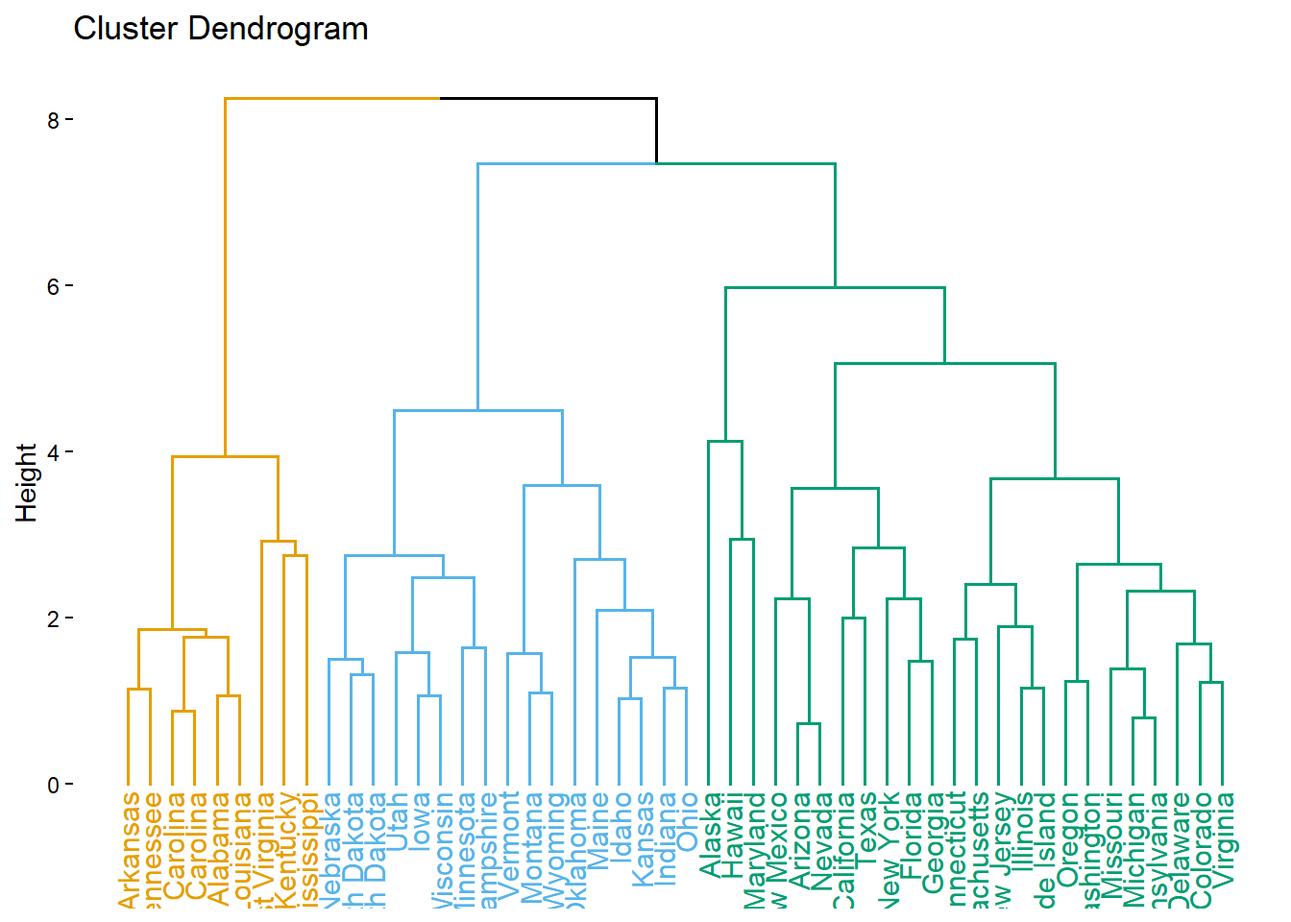
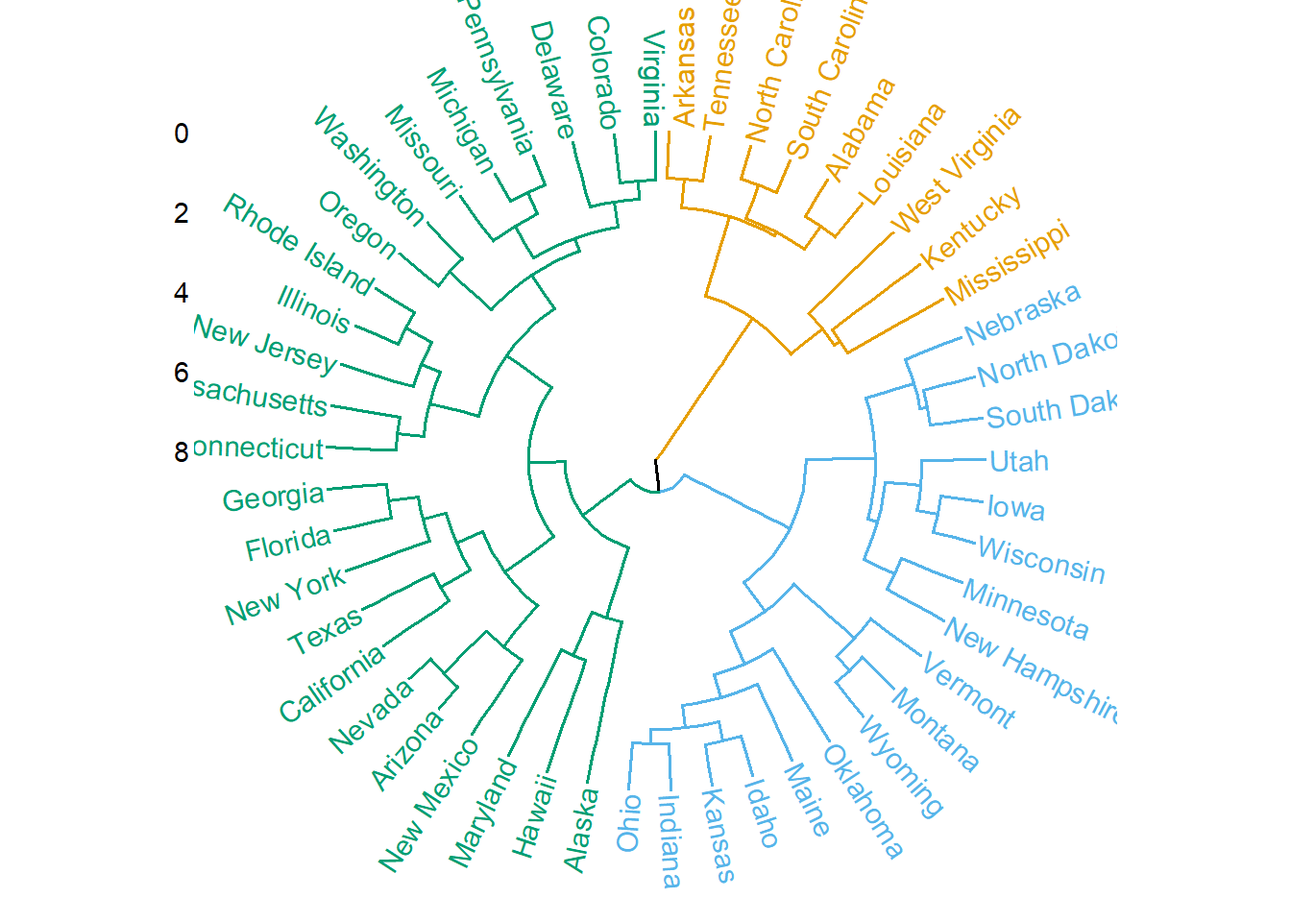
Still trying...

diff --git a/docs/module-05/rTools.html b/docs/module-05/rTools.html
@@ -105,24 +105,6 @@ pre > code.sourceCode > span > a:first-child::before { text-decoration: underlin
     "search-label": "Search"
   }
 }</script>
-<link href="../site_libs/htmltools-fill-0.5.8.1/fill.css" rel="stylesheet">
-
-<script src="../site_libs/htmlwidgets-1.6.4/htmlwidgets.js"></script>
-
-<script src="../site_libs/plotly-binding-4.12.0/plotly.js"></script>
-
-<script src="../site_libs/typedarray-0.1/typedarray.min.js"></script>
-
-<script src="../site_libs/jquery-3.5.1/jquery.min.js"></script>
-
-<link href="../site_libs/crosstalk-1.2.1/css/crosstalk.min.css" rel="stylesheet">
-
-<script src="../site_libs/crosstalk-1.2.1/js/crosstalk.min.js"></script>
-
-<link href="../site_libs/plotly-htmlwidgets-css-2.25.2/plotly-htmlwidgets.css" rel="stylesheet">
-
-<script src="../site_libs/plotly-main-2.25.2/plotly-latest.min.js"></script>
-
 
   <script src="https://cdnjs.cloudflare.com/polyfill/v3/polyfill.min.js?features=es6"></script>
   <script defer="" src="https://cdn.jsdelivr.net/npm/mathjax@3/es5/tex-chtml-full.js" type="text/javascript"></script>
@@ -512,29 +494,31 @@ window.Quarto = {
 </div>
 </div>
 </div>
-<p>If you don’t like the cluttering of names, you can shrink the labels and add a tooltip instead using the <code>ggplotly</code> function from the <code>plotly</code> package. Then you can scroll over a point to reveal the state:</p>
-<div class="cell">
-<div class="code-copy-outer-scaffold"><div class="sourceCode cell-code" id="cb10"><pre class="sourceCode r code-with-copy"><code class="sourceCode r"><span id="cb10-1"><a href="#cb10-1" aria-hidden="true" tabindex="-1"></a><span class="fu">library</span>(plotly)</span>
-<span id="cb10-2"><a href="#cb10-2" aria-hidden="true" tabindex="-1"></a>cluster_plot<span class="ot">=</span><span class="fu">fviz_cluster</span>(election_kmeans,</span>
-<span id="cb10-3"><a href="#cb10-3" aria-hidden="true" tabindex="-1"></a>             <span class="at">data=</span>election_scale,</span>
-<span id="cb10-4"><a href="#cb10-4" aria-hidden="true" tabindex="-1"></a>             <span class="at">labelsize=</span><span class="fl">0.1</span>,</span>
-<span id="cb10-5"><a href="#cb10-5" aria-hidden="true" tabindex="-1"></a>  <span class="at">palette=</span>cb_palette[<span class="dv">2</span><span class="sc">:</span><span class="dv">4</span>])</span>
-<span id="cb10-6"><a href="#cb10-6" aria-hidden="true" tabindex="-1"></a><span class="fu">ggplotly</span>(cluster_plot,<span class="at">tooltip =</span> <span class="st">"text"</span>)</span></code></pre></div><button title="Copy to Clipboard" class="code-copy-button"><i class="bi"></i></button></div>
-<div class="cell-output-display">
-<div class="plotly html-widget html-fill-item" id="htmlwidget-8c93e593dcd35da8ef87" style="width:100%;height:464px;"></div>
-<script type="application/json" data-for="htmlwidget-8c93e593dcd35da8ef87">{"x":{"data":[{"x":[-2.2976920950619757,-3.4579815063430837,0.65488316007940039,-0.57306391682508706,0.10679401038089226,-2.3336397779250557,-2.088062601642922,0.61618628385279894,-1.0571038629020169,0.027167697426979553,-0.59820230288701914,0.11837066415154505,-2.2112814622806525,-1.465712456721405,-2.7086221065581784,-0.37187135645302105,-0.066341571462854715,-1.3825811885629014,-2.5402287656728735,-0.073178625344907128,0.16345016286404679],"y":[0.70633242639587879,1.8857588150984332,1.3328566945280842,2.1121720222998186,0.89800796899391133,0.1943778542753947,0.27934656190753604,3.1169013071066534,1.0820385997528874,3.2338253654451612,1.8179302593667013,-0.050095664925867908,0.86213487791744614,2.5789790146882621,0.83037449932062701,0.49513706772535027,-0.063602067651514771,1.155238372670339,1.4341327912183277,1.7217792535681351,1.0980789493058363],"text":"","type":"scatter","mode":"markers","marker":{"autocolorscale":false,"color":"rgba(230,159,0,1)","opacity":1,"size":5.6692913385826778,"symbol":"circle","line":{"width":1.8897637795275593,"color":"rgba(230,159,0,1)"}},"hoveron":"points","name":"1","legendgroup":"1","showlegend":true,"xaxis":"x","yaxis":"y","hoverinfo":"text","frame":null},{"x":[1.3749407601728492,1.3600943502645158,0.5124428856252885,2.687874176440936,1.0627972742148741,2.0844133489057728,2.2263062589325067,0.44930860848333115,2.7809815971655016,2.3712428318529777,3.4557327395988047,2.9293465380405919,0.5191293231431795,2.309326966475842,2.3533730322955675,3.0538987993089375,1.8044548304996253,3.268952776649404],"y":[1.3889740276872915,-0.74942661917558984,-1.3018384138704417,-0.15542681620354867,-0.68818471183037411,-1.8525110921412142,1.8615265381799257,0.0075294636184669861,-1.772664005874574,0.58326511888020582,1.3653393019025726,-0.20253340775355808,-0.80729059305616424,-0.60385617903777444,0.99896504659684204,-1.2374827373584121,-0.02219390885203229,-1.0404805811247406],"text":"","type":"scatter","mode":"markers","marker":{"autocolorscale":false,"color":"rgba(86,180,233,1)","opacity":1,"size":5.6692913385826778,"symbol":"triangle-up","line":{"width":1.8897637795275593,"color":"rgba(86,180,233,1)"}},"hoveron":"points","name":"(2,1)","legendgroup":"(2,1)","showlegend":true,"xaxis":"x","yaxis":"y","hoverinfo":"text","frame":null},{"x":[-1.6313116065848672,-0.95242981851338049,-0.92734416591119184,-2.1632404335808748,-1.8457131087741316,-2.5362975801474823,-1.4176371027357724,0.045702562624385337,-1.1918789994133645,-1.6533223162591157,-0.79243291088642143],"y":[-2.360600722364866,-1.844265037110024,-3.7045720074914681,-1.875211165773792,-3.6838476316817066,-0.59977868777620136,-0.77128527910468192,-1.0299785953675664,-0.92490467957479028,-1.8738762021509057,-3.8250953911982823],"text":"","type":"scatter","mode":"markers","marker":{"autocolorscale":false,"color":"rgba(0,158,115,1)","opacity":1,"size":5.6692913385826778,"symbol":"square","line":{"width":1.8897637795275593,"color":"rgba(0,158,115,1)"}},"hoveron":"points","name":"(3,1)","legendgroup":"(3,1)","showlegend":true,"xaxis":"x","yaxis":"y","hoverinfo":"text","frame":null},{"x":[0.65488316007940039,0.11837066415154505,-0.066341571462854715,-2.3336397779250557,-3.4579815063430837,0.027167697426979553,0.61618628385279894,0.65488316007940039],"y":[1.3328566945280842,-0.050095664925867908,-0.063602067651514771,0.1943778542753947,1.8857588150984332,3.2338253654451612,3.1169013071066534,1.3328566945280842],"text":"","type":"scatter","mode":"lines","line":{"width":1.8897637795275593,"color":"rgba(230,159,0,0.2)","dash":"solid"},"fill":"toself","fillcolor":"rgba(230,159,0,0.2)","hoveron":"fills","name":"1","legendgroup":"1","showlegend":false,"xaxis":"x","yaxis":"y","hoverinfo":"text","frame":null},{"x":[3.268952776649404,2.7809815971655016,2.0844133489057728,0.5124428856252885,0.44930860848333115,1.3749407601728492,2.2263062589325067,3.4557327395988047,3.268952776649404],"y":[-1.0404805811247406,-1.772664005874574,-1.8525110921412142,-1.3018384138704417,0.0075294636184669861,1.3889740276872915,1.8615265381799257,1.3653393019025726,-1.0404805811247406],"text":"","type":"scatter","mode":"lines","line":{"width":1.8897637795275593,"color":"rgba(86,180,233,0.2)","dash":"solid"},"fill":"toself","fillcolor":"rgba(86,180,233,0.2)","hoveron":"fills","name":"(2,1)","legendgroup":"(2,1)","showlegend":false,"xaxis":"x","yaxis":"y","hoverinfo":"text","frame":null},{"x":[-0.79243291088642143,-1.8457131087741316,-2.5362975801474823,-1.4176371027357724,0.045702562624385337,-0.79243291088642143],"y":[-3.8250953911982823,-3.6838476316817066,-0.59977868777620136,-0.77128527910468192,-1.0299785953675664,-3.8250953911982823],"text":"","type":"scatter","mode":"lines","line":{"width":1.8897637795275593,"color":"rgba(0,158,115,0.2)","dash":"solid"},"fill":"toself","fillcolor":"rgba(0,158,115,0.2)","hoveron":"fills","name":"(3,1)","legendgroup":"(3,1)","showlegend":false,"xaxis":"x","yaxis":"y","hoverinfo":"text","frame":null},{"x":[-1.0256529341851568],"y":[1.2724621413813049],"text":"","type":"scatter","mode":"markers","marker":{"autocolorscale":false,"color":"rgba(230,159,0,1)","opacity":1,"size":11.338582677165356,"symbol":"circle","line":{"width":1.8897637795275593,"color":"rgba(230,159,0,1)"}},"hoveron":"points","name":"1","legendgroup":"1","showlegend":false,"xaxis":"x","yaxis":"y","hoverinfo":"text","frame":null},{"x":[2.0335898387816949],"y":[-0.23490497607850663],"text":"","type":"scatter","mode":"markers","marker":{"autocolorscale":false,"color":"rgba(86,180,233,1)","opacity":1,"size":11.338582677165356,"symbol":"triangle-up","line":{"width":1.8897637795275593,"color":"rgba(86,180,233,1)"}},"hoveron":"points","name":"(2,1)","legendgroup":"(2,1)","showlegend":false,"xaxis":"x","yaxis":"y","hoverinfo":"text","frame":null},{"x":[-1.3696277709256561],"y":[-2.044855945417662],"text":"","type":"scatter","mode":"markers","marker":{"autocolorscale":false,"color":"rgba(0,158,115,1)","opacity":1,"size":11.338582677165356,"symbol":"square","line":{"width":1.8897637795275593,"color":"rgba(0,158,115,1)"}},"hoveron":"points","name":"(3,1)","legendgroup":"(3,1)","showlegend":false,"xaxis":"x","yaxis":"y","hoverinfo":"text","frame":null},{"x":[-1.6313116065848672,1.3749407601728492,-2.2976920950619757,-0.95242981851338049,-3.4579815063430837,0.65488316007940039,-0.57306391682508706,0.10679401038089226,-2.3336397779250557,-2.088062601642922,0.61618628385279894,1.3600943502645158,-1.0571038629020169,0.5124428856252885,2.687874176440936,1.0627972742148741,-0.92734416591119184,-2.1632404335808748,2.0844133489057728,0.027167697426979553,-0.59820230288701914,0.11837066415154505,2.2263062589325067,-1.8457131087741316,0.44930860848333115,2.7809815971655016,2.3712428318529777,-2.2112814622806525,3.4557327395988047,-1.465712456721405,-2.5362975801474823,-2.7086221065581784,-1.4176371027357724,2.9293465380405919,0.5191293231431795,0.045702562624385337,-0.37187135645302105,-0.066341571462854715,-1.3825811885629014,-1.1918789994133645,2.309326966475842,-1.6533223162591157,-2.5402287656728735,2.3533730322955675,3.0538987993089375,-0.073178625344907128,0.16345016286404679,-0.79243291088642143,1.8044548304996253,3.268952776649404],"y":[-2.360600722364866,1.3889740276872915,0.70633242639587879,-1.844265037110024,1.8857588150984332,1.3328566945280842,2.1121720222998186,0.89800796899391133,0.1943778542753947,0.27934656190753604,3.1169013071066534,-0.74942661917558984,1.0820385997528874,-1.3018384138704417,-0.15542681620354867,-0.68818471183037411,-3.7045720074914681,-1.875211165773792,-1.8525110921412142,3.2338253654451612,1.8179302593667013,-0.050095664925867908,1.8615265381799257,-3.6838476316817066,0.0075294636184669861,-1.772664005874574,0.58326511888020582,0.86213487791744614,1.3653393019025726,2.5789790146882621,-0.59977868777620136,0.83037449932062701,-0.77128527910468192,-0.20253340775355808,-0.80729059305616424,-1.0299785953675664,0.49513706772535027,-0.063602067651514771,1.155238372670339,-0.92490467957479028,-0.60385617903777444,-1.8738762021509057,1.4341327912183277,0.99896504659684204,-1.2374827373584121,1.7217792535681351,1.0980789493058363,-3.8250953911982823,-0.02219390885203229,-1.0404805811247406],"text":["Alabama","Alaska","Arizona","Arkansas","California","Colorado","Connecticut","Delaware","Florida","Georgia","Hawaii","Idaho","Illinois","Indiana","Iowa","Kansas","Kentucky","Louisiana","Maine","Maryland","Massachusetts","Michigan","Minnesota","Mississippi","Missouri","Montana","Nebraska","Nevada","New Hampshire","New Jersey","New Mexico","New York","North Carolina","North Dakota","Ohio","Oklahoma","Oregon","Pennsylvania","Rhode Island","South Carolina","South Dakota","Tennessee","Texas","Utah","Vermont","Virginia","Washington","West Virginia","Wisconsin","Wyoming"],"hovertext":["","","","","","","","","","","","","","","","","","","","","","","","","","","","","","","","","","","","","","","","","","","","","","","","","",""],"textfont":{"size":13.858267716535433,"color":"rgba(255,255,255,0)"},"type":"scatter","mode":"text","hoveron":"points","showlegend":false,"xaxis":"x","yaxis":"y","hoverinfo":"text","frame":null}],"layout":{"margin":{"t":40.840182648401829,"r":7.3059360730593621,"b":37.260273972602747,"l":37.260273972602747},"plot_bgcolor":"rgba(235,235,235,1)","paper_bgcolor":"rgba(255,255,255,1)","font":{"color":"rgba(0,0,0,1)","family":"","size":14.611872146118724},"title":{"text":"Cluster plot","font":{"color":"rgba(0,0,0,1)","family":"","size":17.534246575342465},"x":0,"xref":"paper"},"xaxis":{"domain":[0,1],"automargin":true,"type":"linear","autorange":false,"range":[-3.8036672186401779,3.8014184518958993],"tickmode":"array","ticktext":["-2","0","2"],"tickvals":[-2,0,2],"categoryorder":"array","categoryarray":["-2","0","2"],"nticks":null,"ticks":"outside","tickcolor":"rgba(0,0,0,1)","ticklen":3.6529680365296811,"tickwidth":0.66417600664176002,"showticklabels":true,"tickfont":{"color":"rgba(77,77,77,1)","family":"","size":11.68949771689498},"tickangle":-0,"showline":false,"linecolor":null,"linewidth":0,"showgrid":true,"gridcolor":"rgba(255,255,255,1)","gridwidth":0.66417600664176002,"zeroline":false,"anchor":"y","title":{"text":"Dim1 (43%)","font":{"color":"rgba(0,0,0,1)","family":"","size":14.611872146118724}},"hoverformat":".2f"},"yaxis":{"domain":[0,1],"automargin":true,"type":"linear","autorange":false,"range":[-4.1780414290304542,3.5867714032773335],"tickmode":"array","ticktext":["-4","-2","0","2"],"tickvals":[-4,-2,0,2],"categoryorder":"array","categoryarray":["-4","-2","0","2"],"nticks":null,"ticks":"outside","tickcolor":"rgba(0,0,0,1)","ticklen":3.6529680365296811,"tickwidth":0.66417600664176002,"showticklabels":true,"tickfont":{"color":"rgba(77,77,77,1)","family":"","size":11.68949771689498},"tickangle":-0,"showline":false,"linecolor":null,"linewidth":0,"showgrid":true,"gridcolor":"rgba(255,255,255,1)","gridwidth":0.66417600664176002,"zeroline":false,"anchor":"x","title":{"text":"Dim2 (34.2%)","font":{"color":"rgba(0,0,0,1)","family":"","size":14.611872146118724}},"hoverformat":".2f"},"shapes":[],"showlegend":true,"legend":{"bgcolor":"rgba(255,255,255,1)","bordercolor":"transparent","borderwidth":1.8897637795275593,"font":{"color":"rgba(0,0,0,1)","family":"","size":11.68949771689498},"title":{"text":"cluster","font":{"color":"rgba(0,0,0,1)","family":"","size":14.611872146118724}}},"hovermode":"closest","barmode":"relative"},"config":{"doubleClick":"reset","modeBarButtonsToAdd":["hoverclosest","hovercompare"],"showSendToCloud":false},"source":"A","attrs":{"3a903a56269a":{"x":{},"y":{},"colour":{},"shape":{},"type":"scatter"},"3a9036d37f8d":{"x":{},"y":{},"colour":{},"fill":{}},"3a90fde5b60":{"x":{},"y":{},"colour":{},"shape":{}},"3a90faa49ca":{"x":{},"y":{},"label":{}}},"cur_data":"3a903a56269a","visdat":{"3a903a56269a":["function (y) ","x"],"3a9036d37f8d":["function (y) ","x"],"3a90fde5b60":["function (y) ","x"],"3a90faa49ca":["function (y) ","x"]},"highlight":{"on":"plotly_click","persistent":false,"dynamic":false,"selectize":false,"opacityDim":0.20000000000000001,"selected":{"opacity":1},"debounce":0},"shinyEvents":["plotly_hover","plotly_click","plotly_selected","plotly_relayout","plotly_brushed","plotly_brushing","plotly_clickannotation","plotly_doubleclick","plotly_deselect","plotly_afterplot","plotly_sunburstclick"],"base_url":"https://plot.ly"},"evals":[],"jsHooks":[]}</script>
-</div>
-</div>
 <p>Unfortunately, there are no functions for doing the center visualizations (eg. bar, heatmap) so you’ll still have to do that the longer way!</p>
 </section>
 <section id="tools-for-hierarchichal-clustering" class="level2">
 <h2 class="anchored" data-anchor-id="tools-for-hierarchichal-clustering">Tools for Hierarchichal Clustering</h2>
 <p>To create a dendrogram with three groups colored by cluster, you can use</p>
 <div class="cell">
-<div class="code-copy-outer-scaffold"><div class="sourceCode cell-code" id="cb11"><pre class="sourceCode r code-with-copy"><code class="sourceCode r"><span id="cb11-1"><a href="#cb11-1" aria-hidden="true" tabindex="-1"></a>election_hc<span class="ot">=</span><span class="fu">hclust</span>(<span class="fu">dist</span>(<span class="fu">scale</span>(election2016[,<span class="dv">2</span><span class="sc">:</span><span class="dv">9</span>])),<span class="at">method=</span><span class="st">"complete"</span>)</span>
-<span id="cb11-2"><a href="#cb11-2" aria-hidden="true" tabindex="-1"></a><span class="fu">fviz_dend</span>(election_hc,</span>
-<span id="cb11-3"><a href="#cb11-3" aria-hidden="true" tabindex="-1"></a>          <span class="at">k=</span><span class="dv">3</span>,</span>
-<span id="cb11-4"><a href="#cb11-4" aria-hidden="true" tabindex="-1"></a>          <span class="at">color_labels_by_k =</span> T,</span>
+<div class="code-copy-outer-scaffold"><div class="sourceCode cell-code" id="cb10"><pre class="sourceCode r code-with-copy"><code class="sourceCode r"><span id="cb10-1"><a href="#cb10-1" aria-hidden="true" tabindex="-1"></a>election_hc<span class="ot">=</span><span class="fu">hclust</span>(<span class="fu">dist</span>(<span class="fu">scale</span>(election2016[,<span class="dv">2</span><span class="sc">:</span><span class="dv">9</span>])),<span class="at">method=</span><span class="st">"complete"</span>)</span>
+<span id="cb10-2"><a href="#cb10-2" aria-hidden="true" tabindex="-1"></a><span class="fu">fviz_dend</span>(election_hc,</span>
+<span id="cb10-3"><a href="#cb10-3" aria-hidden="true" tabindex="-1"></a>          <span class="at">k=</span><span class="dv">3</span>,</span>
+<span id="cb10-4"><a href="#cb10-4" aria-hidden="true" tabindex="-1"></a>          <span class="at">color_labels_by_k =</span> T,</span>
+<span id="cb10-5"><a href="#cb10-5" aria-hidden="true" tabindex="-1"></a>  <span class="at">palette=</span>cb_palette[<span class="dv">2</span><span class="sc">:</span><span class="dv">4</span>])</span></code></pre></div><button title="Copy to Clipboard" class="code-copy-button"><i class="bi"></i></button></div>
+<div class="cell-output-display">
+<div>
+<figure class="figure">
+<p><img src="rTools_files/figure-html/unnamed-chunk-10-1.png" class="img-fluid figure-img" width="672"></p>
+</figure>
+</div>
+</div>
+</div>
+<p>One cool option is to turn this into a circle:</p>
+<div class="cell">
+<div class="code-copy-outer-scaffold"><div class="sourceCode cell-code" id="cb11"><pre class="sourceCode r code-with-copy"><code class="sourceCode r"><span id="cb11-1"><a href="#cb11-1" aria-hidden="true" tabindex="-1"></a><span class="fu">fviz_dend</span>(election_hc,</span>
+<span id="cb11-2"><a href="#cb11-2" aria-hidden="true" tabindex="-1"></a>          <span class="at">k=</span><span class="dv">3</span>,</span>
+<span id="cb11-3"><a href="#cb11-3" aria-hidden="true" tabindex="-1"></a>          <span class="at">color_labels_by_k =</span> T,</span>
+<span id="cb11-4"><a href="#cb11-4" aria-hidden="true" tabindex="-1"></a>          <span class="at">type=</span><span class="st">"circular"</span>,</span>
 <span id="cb11-5"><a href="#cb11-5" aria-hidden="true" tabindex="-1"></a>  <span class="at">palette=</span>cb_palette[<span class="dv">2</span><span class="sc">:</span><span class="dv">4</span>])</span></code></pre></div><button title="Copy to Clipboard" class="code-copy-button"><i class="bi"></i></button></div>
 <div class="cell-output-display">
 <div>
@@ -544,33 +528,18 @@ window.Quarto = {
 </div>
 </div>
 </div>
-<p>One cool option is to turn this into a circle:</p>
+<p>Another is to go bio on its ass and turn it into a phylogenic tree:</p>
 <div class="cell">
 <div class="code-copy-outer-scaffold"><div class="sourceCode cell-code" id="cb12"><pre class="sourceCode r code-with-copy"><code class="sourceCode r"><span id="cb12-1"><a href="#cb12-1" aria-hidden="true" tabindex="-1"></a><span class="fu">fviz_dend</span>(election_hc,</span>
 <span id="cb12-2"><a href="#cb12-2" aria-hidden="true" tabindex="-1"></a>          <span class="at">k=</span><span class="dv">3</span>,</span>
 <span id="cb12-3"><a href="#cb12-3" aria-hidden="true" tabindex="-1"></a>          <span class="at">color_labels_by_k =</span> T,</span>
-<span id="cb12-4"><a href="#cb12-4" aria-hidden="true" tabindex="-1"></a>          <span class="at">type=</span><span class="st">"circular"</span>,</span>
-<span id="cb12-5"><a href="#cb12-5" aria-hidden="true" tabindex="-1"></a>  <span class="at">palette=</span>cb_palette[<span class="dv">2</span><span class="sc">:</span><span class="dv">4</span>])</span></code></pre></div><button title="Copy to Clipboard" class="code-copy-button"><i class="bi"></i></button></div>
+<span id="cb12-4"><a href="#cb12-4" aria-hidden="true" tabindex="-1"></a>          <span class="at">type=</span><span class="st">"phylogenic"</span>,</span>
+<span id="cb12-5"><a href="#cb12-5" aria-hidden="true" tabindex="-1"></a>          <span class="at">repel=</span>T,</span>
+<span id="cb12-6"><a href="#cb12-6" aria-hidden="true" tabindex="-1"></a>  <span class="at">palette=</span>cb_palette[<span class="dv">2</span><span class="sc">:</span><span class="dv">4</span>])</span></code></pre></div><button title="Copy to Clipboard" class="code-copy-button"><i class="bi"></i></button></div>
 <div class="cell-output-display">
 <div>
 <figure class="figure">
 <p><img src="rTools_files/figure-html/unnamed-chunk-12-1.png" class="img-fluid figure-img" width="672"></p>
-</figure>
-</div>
-</div>
-</div>
-<p>Another is to go bio on its ass and turn it into a phylogenic tree:</p>
-<div class="cell">
-<div class="code-copy-outer-scaffold"><div class="sourceCode cell-code" id="cb13"><pre class="sourceCode r code-with-copy"><code class="sourceCode r"><span id="cb13-1"><a href="#cb13-1" aria-hidden="true" tabindex="-1"></a><span class="fu">fviz_dend</span>(election_hc,</span>
-<span id="cb13-2"><a href="#cb13-2" aria-hidden="true" tabindex="-1"></a>          <span class="at">k=</span><span class="dv">3</span>,</span>
-<span id="cb13-3"><a href="#cb13-3" aria-hidden="true" tabindex="-1"></a>          <span class="at">color_labels_by_k =</span> T,</span>
-<span id="cb13-4"><a href="#cb13-4" aria-hidden="true" tabindex="-1"></a>          <span class="at">type=</span><span class="st">"phylogenic"</span>,</span>
-<span id="cb13-5"><a href="#cb13-5" aria-hidden="true" tabindex="-1"></a>          <span class="at">repel=</span>T,</span>
-<span id="cb13-6"><a href="#cb13-6" aria-hidden="true" tabindex="-1"></a>  <span class="at">palette=</span>cb_palette[<span class="dv">2</span><span class="sc">:</span><span class="dv">4</span>])</span></code></pre></div><button title="Copy to Clipboard" class="code-copy-button"><i class="bi"></i></button></div>
-<div class="cell-output-display">
-<div>
-<figure class="figure">
-<p><img src="rTools_files/figure-html/unnamed-chunk-13-1.png" class="img-fluid figure-img" width="672"></p>
 </figure>
 </div>
 </div>
@@ -581,14 +550,14 @@ window.Quarto = {
 <h2 class="anchored" data-anchor-id="silhouette-diagrams">Silhouette Diagrams</h2>
 <p>We do not cover these types of plots in Module 5.1-5.3, but they are a commonly used tool for validating a clustering and can be applied to either k-means or hierarchichal outputs. The idea is to assign each data point a number between <span class="math inline">\(-1\)</span> and 1 called the Silhouette Width<a href="#fn4" class="footnote-ref" id="fnref4" role="doc-noteref"><sup>4</sup></a> (Si). Si values closer to 1 indicate a point that is “well-clustered” while values closer to -1 indicate poor clustering.</p>
 <div class="cell">
-<div class="code-copy-outer-scaffold"><div class="sourceCode cell-code" id="cb14"><pre class="sourceCode r code-with-copy"><code class="sourceCode r"><span id="cb14-1"><a href="#cb14-1" aria-hidden="true" tabindex="-1"></a><span class="fu">library</span>(cluster)</span>
-<span id="cb14-2"><a href="#cb14-2" aria-hidden="true" tabindex="-1"></a>election_scaled <span class="ot">=</span> <span class="fu">scale</span>(election2016[,<span class="dv">2</span><span class="sc">:</span><span class="dv">9</span>])</span>
-<span id="cb14-3"><a href="#cb14-3" aria-hidden="true" tabindex="-1"></a>election_sil<span class="ot">=</span><span class="fu">silhouette</span>(election_kmeans<span class="sc">$</span>cluster,</span>
-<span id="cb14-4"><a href="#cb14-4" aria-hidden="true" tabindex="-1"></a>                        <span class="fu">dist</span>(election_scaled))</span>
-<span id="cb14-5"><a href="#cb14-5" aria-hidden="true" tabindex="-1"></a><span class="fu">rownames</span>(election_sil) <span class="ot">=</span> election2016<span class="sc">$</span>state  <span class="co"># to display state names</span></span>
-<span id="cb14-6"><a href="#cb14-6" aria-hidden="true" tabindex="-1"></a><span class="fu">fviz_silhouette</span>(election_sil,</span>
-<span id="cb14-7"><a href="#cb14-7" aria-hidden="true" tabindex="-1"></a>  <span class="at">palette=</span>cb_palette[<span class="dv">2</span><span class="sc">:</span><span class="dv">4</span>],</span>
-<span id="cb14-8"><a href="#cb14-8" aria-hidden="true" tabindex="-1"></a>  <span class="at">label=</span>T)</span></code></pre></div><button title="Copy to Clipboard" class="code-copy-button"><i class="bi"></i></button></div>
+<div class="code-copy-outer-scaffold"><div class="sourceCode cell-code" id="cb13"><pre class="sourceCode r code-with-copy"><code class="sourceCode r"><span id="cb13-1"><a href="#cb13-1" aria-hidden="true" tabindex="-1"></a><span class="fu">library</span>(cluster)</span>
+<span id="cb13-2"><a href="#cb13-2" aria-hidden="true" tabindex="-1"></a>election_scaled <span class="ot">=</span> <span class="fu">scale</span>(election2016[,<span class="dv">2</span><span class="sc">:</span><span class="dv">9</span>])</span>
+<span id="cb13-3"><a href="#cb13-3" aria-hidden="true" tabindex="-1"></a>election_sil<span class="ot">=</span><span class="fu">silhouette</span>(election_kmeans<span class="sc">$</span>cluster,</span>
+<span id="cb13-4"><a href="#cb13-4" aria-hidden="true" tabindex="-1"></a>                        <span class="fu">dist</span>(election_scaled))</span>
+<span id="cb13-5"><a href="#cb13-5" aria-hidden="true" tabindex="-1"></a><span class="fu">rownames</span>(election_sil) <span class="ot">=</span> election2016<span class="sc">$</span>state  <span class="co"># to display state names</span></span>
+<span id="cb13-6"><a href="#cb13-6" aria-hidden="true" tabindex="-1"></a><span class="fu">fviz_silhouette</span>(election_sil,</span>
+<span id="cb13-7"><a href="#cb13-7" aria-hidden="true" tabindex="-1"></a>  <span class="at">palette=</span>cb_palette[<span class="dv">2</span><span class="sc">:</span><span class="dv">4</span>],</span>
+<span id="cb13-8"><a href="#cb13-8" aria-hidden="true" tabindex="-1"></a>  <span class="at">label=</span>T)</span></code></pre></div><button title="Copy to Clipboard" class="code-copy-button"><i class="bi"></i></button></div>
 <div class="cell-output cell-output-stdout">
 <pre><code>  cluster size ave.sil.width
 1       1   21          0.21
@@ -598,7 +567,7 @@ window.Quarto = {
 <div class="cell-output-display">
 <div>
 <figure class="figure">
-<p><img src="rTools_files/figure-html/unnamed-chunk-14-1.png" class="img-fluid figure-img" width="672"></p>
+<p><img src="rTools_files/figure-html/unnamed-chunk-13-1.png" class="img-fluid figure-img" width="672"></p>
 </figure>
 </div>
 </div>
@@ -606,10 +575,10 @@ window.Quarto = {
 <p>The red dashed line shows the average Si across all observations so the higher the value, the better. In our example, only one state had a negative Si so our clustering seems to work pretty well at separating states.</p>
 <p>The process only needs a slight modification for hierarchical clustering.</p>
 <div class="cell">
-<div class="code-copy-outer-scaffold"><div class="sourceCode cell-code" id="cb16"><pre class="sourceCode r code-with-copy"><code class="sourceCode r"><span id="cb16-1"><a href="#cb16-1" aria-hidden="true" tabindex="-1"></a>hc_cut <span class="ot">=</span> <span class="fu">hcut</span>(election_scaled, <span class="at">k =</span> <span class="dv">3</span>,<span class="at">method=</span><span class="st">"complete"</span>)</span>
-<span id="cb16-2"><a href="#cb16-2" aria-hidden="true" tabindex="-1"></a><span class="fu">fviz_silhouette</span>(hc_cut,</span>
-<span id="cb16-3"><a href="#cb16-3" aria-hidden="true" tabindex="-1"></a>  <span class="at">palette=</span>cb_palette[<span class="dv">2</span><span class="sc">:</span><span class="dv">4</span>],</span>
-<span id="cb16-4"><a href="#cb16-4" aria-hidden="true" tabindex="-1"></a>  <span class="at">label=</span>T)</span></code></pre></div><button title="Copy to Clipboard" class="code-copy-button"><i class="bi"></i></button></div>
+<div class="code-copy-outer-scaffold"><div class="sourceCode cell-code" id="cb15"><pre class="sourceCode r code-with-copy"><code class="sourceCode r"><span id="cb15-1"><a href="#cb15-1" aria-hidden="true" tabindex="-1"></a>hc_cut <span class="ot">=</span> <span class="fu">hcut</span>(election_scaled, <span class="at">k =</span> <span class="dv">3</span>,<span class="at">method=</span><span class="st">"complete"</span>)</span>
+<span id="cb15-2"><a href="#cb15-2" aria-hidden="true" tabindex="-1"></a><span class="fu">fviz_silhouette</span>(hc_cut,</span>
+<span id="cb15-3"><a href="#cb15-3" aria-hidden="true" tabindex="-1"></a>  <span class="at">palette=</span>cb_palette[<span class="dv">2</span><span class="sc">:</span><span class="dv">4</span>],</span>
+<span id="cb15-4"><a href="#cb15-4" aria-hidden="true" tabindex="-1"></a>  <span class="at">label=</span>T)</span></code></pre></div><button title="Copy to Clipboard" class="code-copy-button"><i class="bi"></i></button></div>
 <div class="cell-output cell-output-stdout">
 <pre><code>  cluster size ave.sil.width
 1       1    9          0.42
@@ -619,7 +588,7 @@ window.Quarto = {
 <div class="cell-output-display">
 <div>
 <figure class="figure">
-<p><img src="rTools_files/figure-html/unnamed-chunk-15-1.png" class="img-fluid figure-img" width="672"></p>
+<p><img src="rTools_files/figure-html/unnamed-chunk-14-1.png" class="img-fluid figure-img" width="672"></p>
 </figure>
 </div>
 </div>

diff --git a/docs/modules.html b/docs/modules.html
@@ -938,7 +938,7 @@ Module 5.3: Hierarchical Clustering
 </div>
 </div></a>
 </div>
-<div class="g-col-1" data-index="43" data-listing-file-modified-sort="1792083698705" data-listing-reading-time-sort="6" data-listing-word-count-sort="1015">
+<div class="g-col-1" data-index="43" data-listing-file-modified-sort="1792177813594" data-listing-reading-time-sort="5" data-listing-word-count-sort="949">
 <a href="./module-05/rTools.html" class="quarto-grid-link">
 <div class="quarto-grid-item card h-100 card-left">
 <div class="card-body post-contents">
